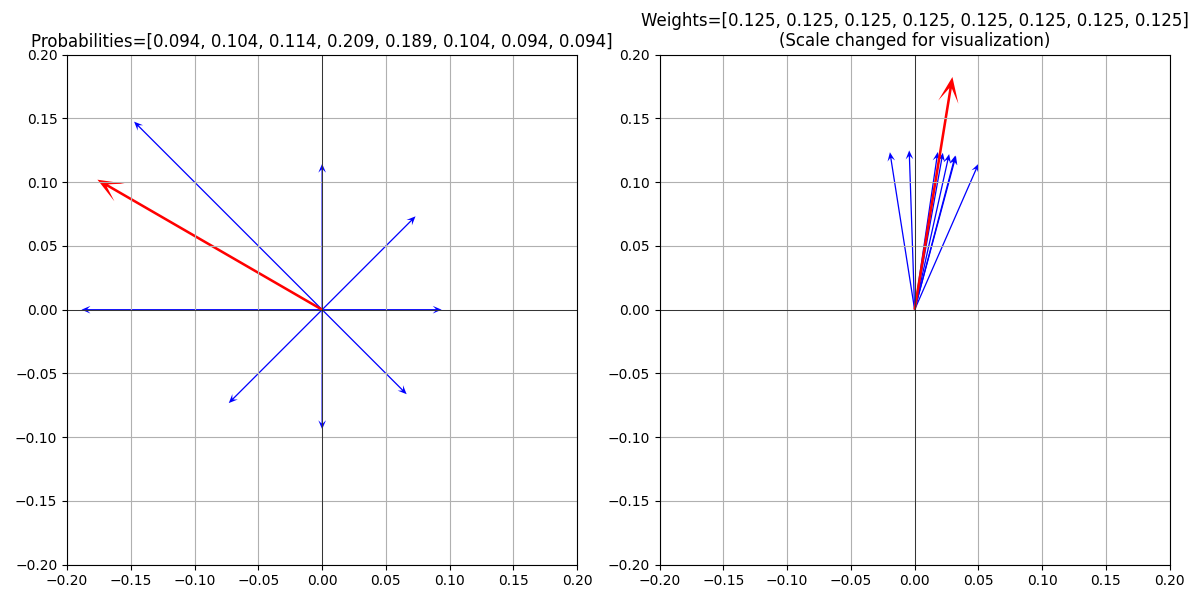
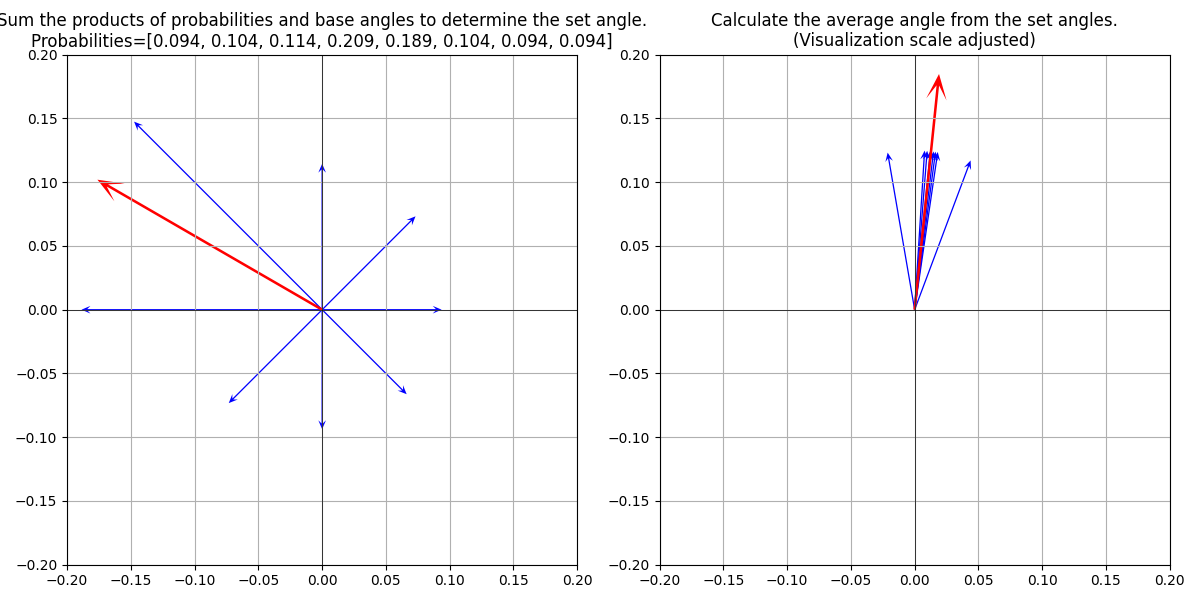
mean shift visualization

Changed region(s): [[0.0, 0.0, 1.0, 0.09], [0.74, 0.12, 0.8325, 0.51]]

diff --git a/visualize.py b/visualize.py
@@ -162,8 +162,12 @@ def draw_mean_shift():
     logits2 = softmax(logits2)
 
     # Call the function with specific axes and titles
-    _draw_mean_shift(axes[0], base_degrees1, logits1, f"Probabilities={[round(logit, 3) for logit in logits1]}")
-    _draw_mean_shift(axes[1], base_degrees2, logits2, f"Weights={[round(logit, 3) for logit in logits2]}\n(Scale changed for visualization)")
+    _draw_mean_shift(axes[0], base_degrees1, logits1,
+                     f"Sum the products of probabilities and base angles to determine the set angle.\n"
+                     f"Probabilities={[round(logit, 3) for logit in logits1]}")
+    _draw_mean_shift(axes[1], base_degrees2, logits2,
+                     f"Calculate the average angle from the set angles.\n"
+                     f"(Visualization scale adjusted)")
 
     plt.tight_layout()
     # plt.show()
